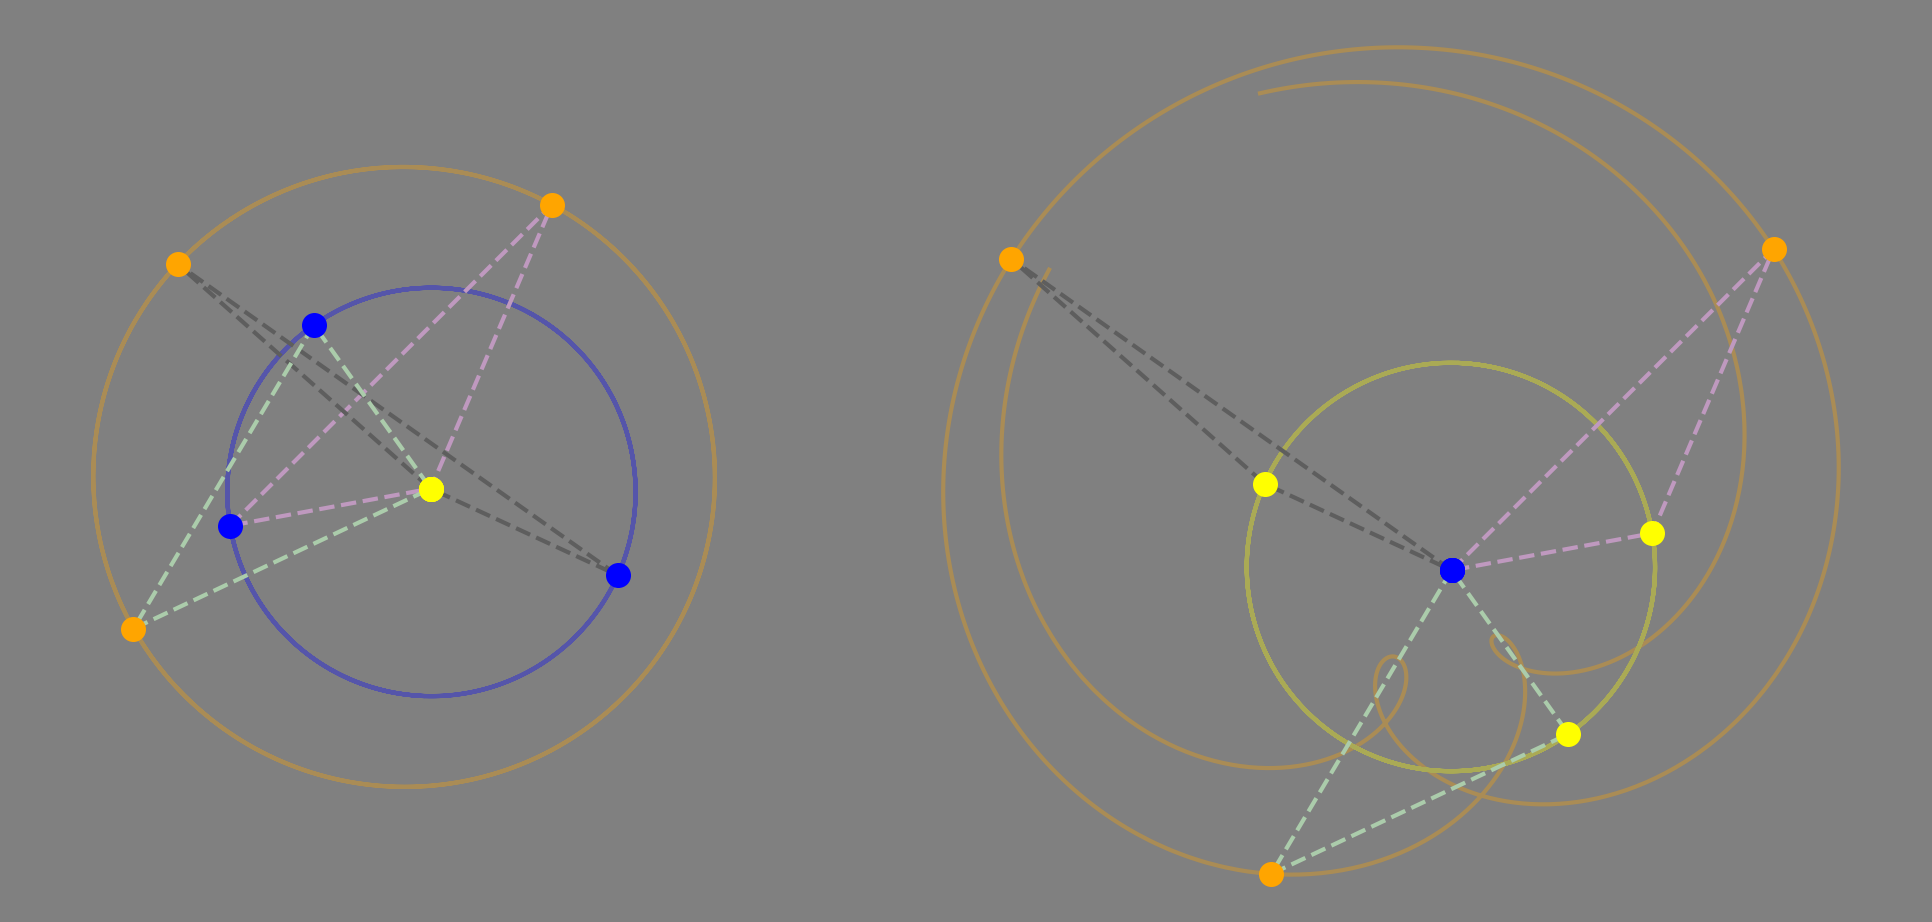
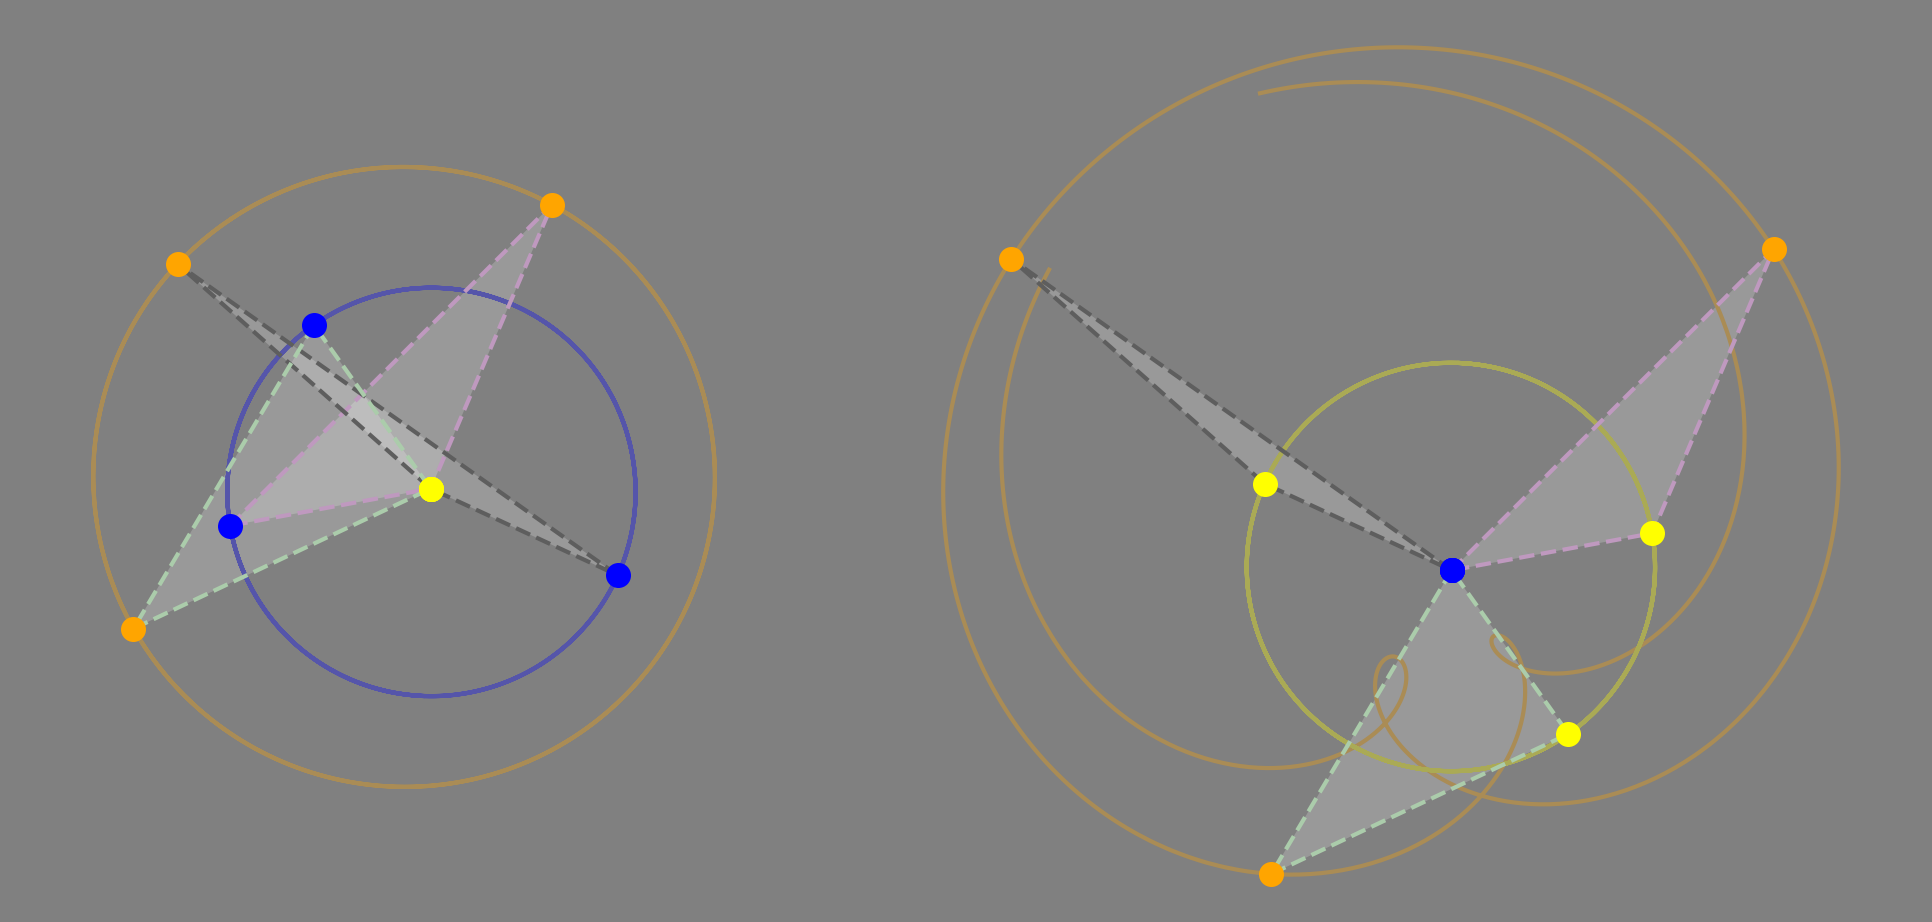
added fig_wrldln.png

diff --git a/gravity.md b/gravity.md
@@ -88,11 +88,15 @@ World-lines and the direction of time
 
 We very naturally think about motion as rapid succession of snapshots or frames, each capturing some group of objects at a single instant of time, because that is exactly how we make movies or videos or any animation.  When the snapshots are presented in rapid sequence, we interpret changes in position of the objects from frame to frame as motion.  Although the frames of a movie or video are two dimensional, it is easy to imagine a succession of three dimensional frames, each depicting some group of objects at a different instant of time.  Euclidean geometry governs each individual frame so we know all about straight lines, circles, distances, angles, and so on in each frozen snapshot - that's exactly what Euclid was trying to capture.  The problem comes when we try to connect the successive frames of our movie, and that connection is what Newton is addressing with his discussion of absolute time and space.
 
-For two dimensions of space, you can imagine each snapshot is reproduced on a card, where each card represents one instant of time.  For example, imagine positions the Sun, Earth, and Mars (as viewed from far above the ecliptic plane) at successive times are marked on each card, so you can label each card by the time of its snapshot.  When we talk about spacetime, we are talking about the whole deck, stacked in order, and we are interested in the geometry of that whole stack.  But when you place each card atop the previous one, how do you know where to put it?  These cards have no edges to line up.  In fact, in the case of the solar system cards, Ptolemy used the Earth to align successive cards the deck, while Copernicus used the Sun - geocentric stacking (on the right) versus heliocentric stacking (on the left).  In general, you are free to slide the cards around however you wish: What does it mean to be "at the same place" at two different times?  Relative to the Earth? to the Sun? or to something else entirely?
+For two dimensions of space, you can imagine each snapshot is reproduced on a card, where each card represents one instant of time.  For example, imagine positions the Sun, Earth, and Mars (as viewed from far above the ecliptic plane) at successive times are marked on each card, so you can label each card by the time of its snapshot.  When we talk about spacetime, we are talking about the whole deck, stacked in order, and we are interested in the geometry of that whole stack.  But when you place each card atop the previous one, how do you know where to put it?  These cards have no edges to line up.  In fact, in the case of the solar system cards, Ptolemy used the Earth to align successive cards the deck, while Copernicus used the Sun - geocentric stacking versus heliocentric stacking.  In general, you are free to slide the cards around however you wish: What does it mean to be "at the same place" at two different times?  Relative to the Earth? to the Sun? or to something else entirely?
 
 <img src="./fig_heliogeo.png" alt="Heliocentric and geocentric orbits" style="width: 95%; padding-left: 2.5%;"></img>
 
-However you stack the spatial slices, when you connect the position of any material body on one slice to its position on successive slices, you get a (possibly curved) line which runs out of the spatial dimensions through the time dimension.  This is called the world-line of the body.  Spacetime geometry is more about these world-lines than about the points (called events) along them.  When you use any particular body as your reference guide for stacking spatial slices, its world-line becomes a straight line which cuts through spacetime perpendicular to the deck in our card model, as does the world-line of any other body which is at rest relative to the first.  Bodies moving with constant velocity (speed and direction) relative to the reference body will also have straight world-lines, but tilted away from the perpendicular to the card deck.  The world-lines for other bodies will be distorted into various curves - in the solar system example every body except whatever you choose as a reference will corkscrew through the card deck.
+The three dashed triangles in this figure indicate the relative positions of the Sun (yellow), Earth (blue), and Mars (orange) at three different times.  The faded trails indicate the trajectories sampled by the dots.  On the left is the heliocentric stacking of the spatial slices, in which successive cards are positioned to put the Sun at the same place at all times, as advocated by Copernicus and Kepler.  On the right is the geocentric stacking, in which the cards are positioned to keep the Earth vertex at the same place, as advocated by Ptolemy and the majority of ancient Greek astronomers.  With geocentric stacking, the trajectory of Mars follows a complicated shape the Greeks described using epicycles.  In general, changing how you stack the cards warps the trajectories of the bodies you are tracking.
+
+However you stack the spatial slices, when you connect the position of any material body on one slice to its position on successive slices, you get a (possibly curved) line which runs out of the spatial dimensions through the time dimension.  This is called the world-line of the body.  The following figure shows the world lines of the Sun, Earth, and Mars over exactly the same time period as the previous figure.  Spacetime geometry is more about these world-lines than about the points (called events) along them.  When you use any particular body as your reference guide for stacking spatial slices, its world-line becomes a straight line which cuts through spacetime perpendicular to the deck in our card model, as does the world-line of any other body which is at rest relative to the first.  Bodies moving with constant velocity (speed and direction) relative to the reference body will also have straight world-lines, but tilted away from the perpendicular to the card deck.  The world-lines for other bodies will be distorted into various curves.  In the solar system example, every body except whatever you choose as a reference will corkscrew through the card deck.
+
+<img src="./fig_wrldln.png" alt="Heliocentric and geocentric orbits" style="width: 95%; padding-left: 2.5%;"></img>
 
 ### The direction of time
 
